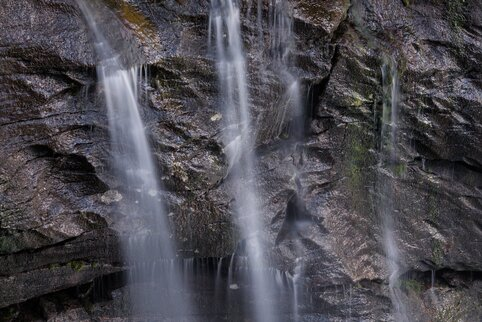
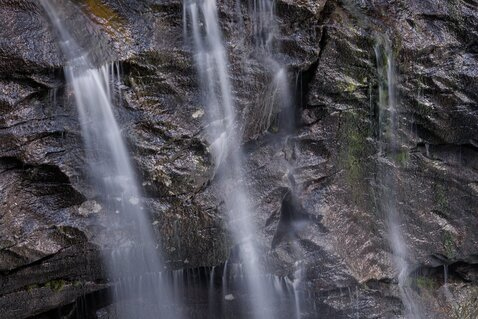
new version of image: 2024_05_30__21_31_13__10

diff --git a/image_data.js b/image_data.js
@@ -164,10 +164,10 @@ const IMAGE_DATA = {
             "aperture": 8.0,
             "camera": "Canon EOS 5D Mark III",
             "capture_time": "2024:05:30 21:31:13",
-            "file_size": "5.0 MB",
+            "file_size": "4.0 MB",
             "focal": "135.0 mm",
-            "image_height": 3868,
-            "image_width": 5794,
+            "image_height": 3509,
+            "image_width": 5257,
             "lens": "Canon EF 135mm f/2L USM",
             "shooting_mode": "Manual",
             "shutter_speed": 5,
